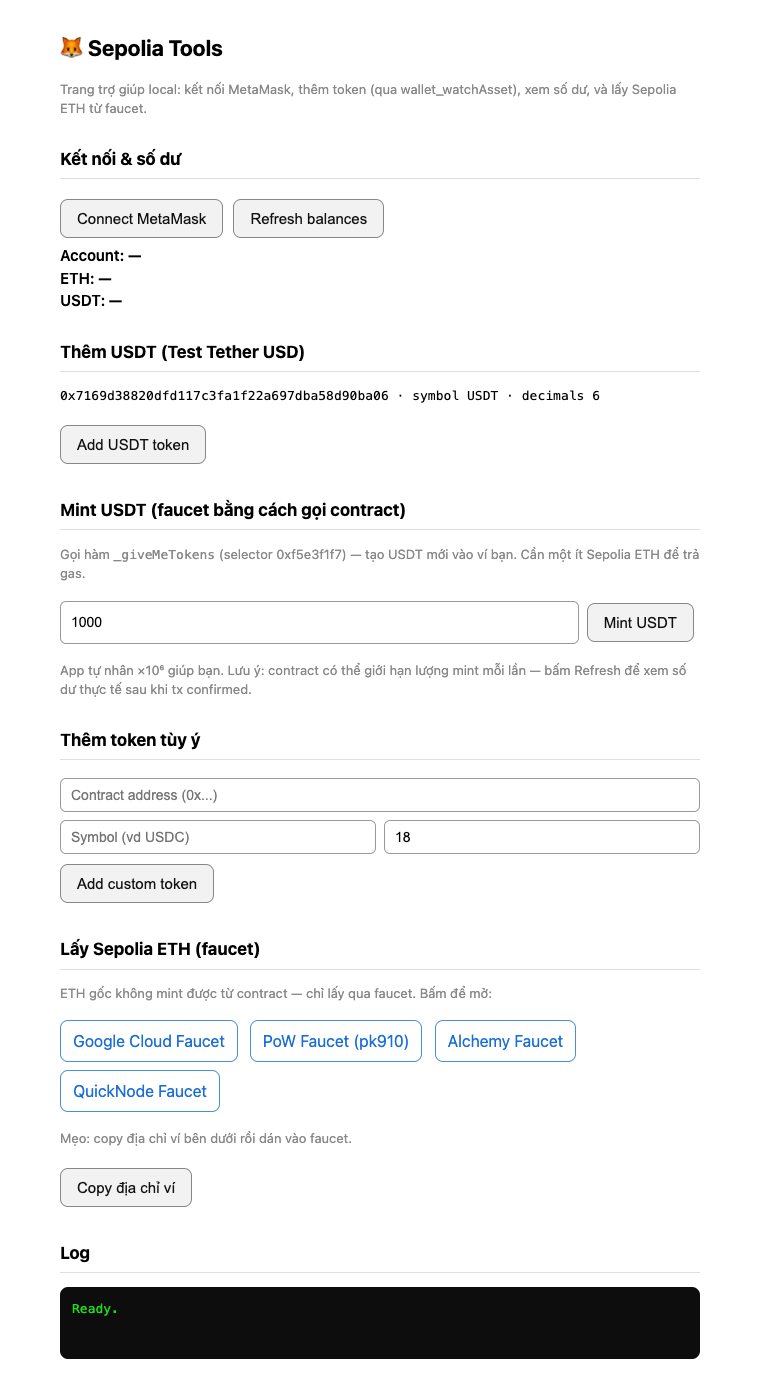
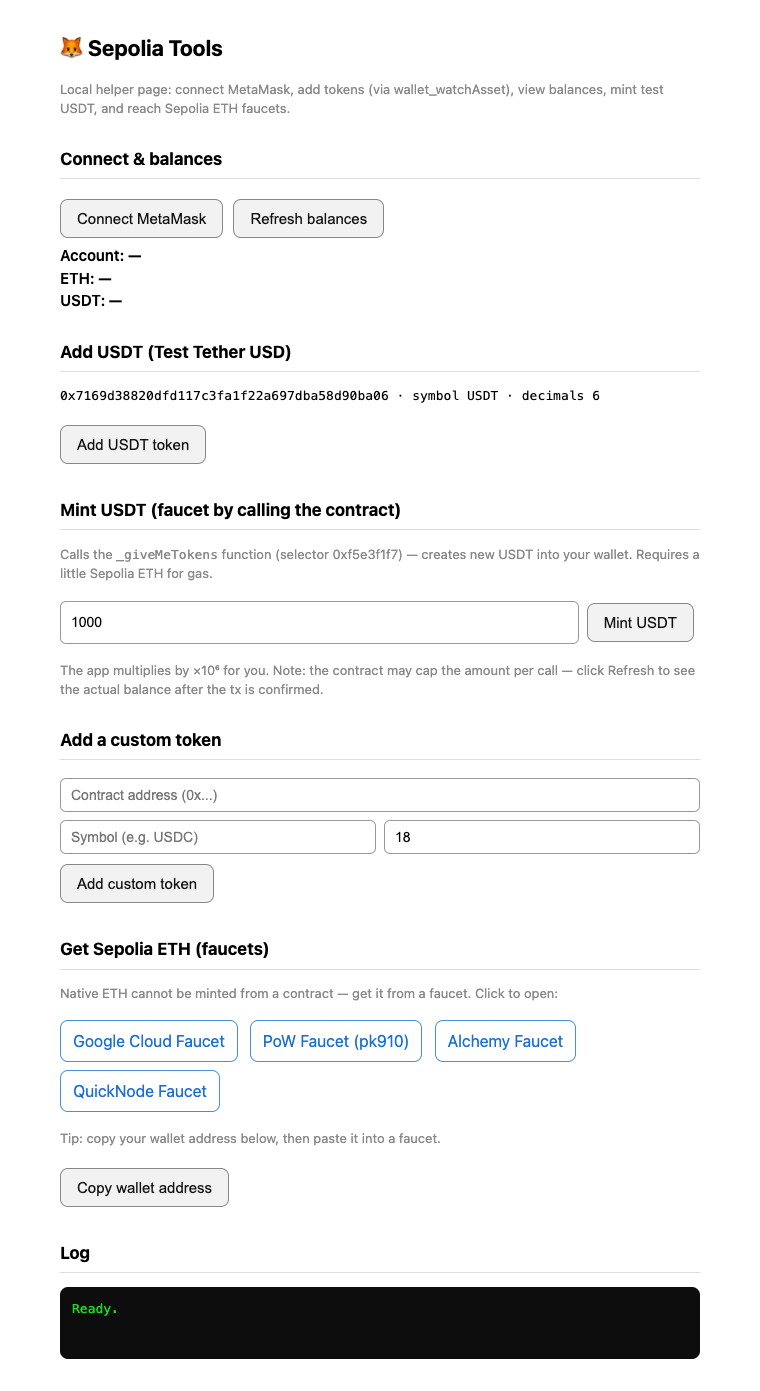
Switch code/UI to English, make README bilingual (English default)
- Translate all UI text and code comments in index.html to English
- Merge READMEs into one bilingual file (English first, Vietnamese below)
- Replace screenshot with English UI

diff --git a/index.html b/index.html
@@ -3,7 +3,7 @@
 <head>
 <meta charset="utf-8"/>
 <meta name="viewport" content="width=device-width, initial-scale=1"/>
-<title>Sepolia Tools — Add Token / Faucet</title>
+<title>Sepolia Tools — Add Token / Mint / Faucet</title>
 <style>
   :root{color-scheme:light dark}
   body{font-family:system-ui,Arial,sans-serif;max-width:640px;margin:32px auto;padding:0 16px;line-height:1.5}
@@ -23,43 +23,43 @@
 </head>
 <body>
 <h1>🦊 Sepolia Tools</h1>
-<p class="muted">Trang trợ giúp local: kết nối MetaMask, thêm token (qua wallet_watchAsset), xem số dư, và lấy Sepolia ETH từ faucet.</p>
+<p class="muted">Local helper page: connect MetaMask, add tokens (via wallet_watchAsset), view balances, mint test USDT, and reach Sepolia ETH faucets.</p>
 
-<h2>Kết nối & số dư</h2>
+<h2>Connect &amp; balances</h2>
 <button id="connect">Connect MetaMask</button>
 <button id="refresh">Refresh balances</button>
 <div class="bal" id="acct">Account: —</div>
 <div class="bal" id="ethBal">ETH: —</div>
 <div class="bal" id="usdtBal">USDT: —</div>
 
-<h2>Thêm USDT (Test Tether USD)</h2>
+<h2>Add USDT (Test Tether USD)</h2>
 <p class="mono">0x7169d38820dfd117c3fa1f22a697dba58d90ba06 · symbol USDT · decimals 6</p>
 <button id="addUsdt">Add USDT token</button>
 
-<h2>Mint USDT (faucet bằng cách gọi contract)</h2>
-<p class="muted">Gọi hàm <span class="mono">_giveMeTokens</span> (selector 0xf5e3f1f7) — tạo USDT mới vào ví bạn. Cần một ít Sepolia ETH để trả gas.</p>
+<h2>Mint USDT (faucet by calling the contract)</h2>
+<p class="muted">Calls the <span class="mono">_giveMeTokens</span> function (selector 0xf5e3f1f7) — creates new USDT into your wallet. Requires a little Sepolia ETH for gas.</p>
 <div class="row">
-  <input id="mintAmt" placeholder="Số USDT muốn mint (vd 1000)" value="1000"/>
+  <input id="mintAmt" placeholder="Amount of USDT to mint (e.g. 1000)" value="1000"/>
   <button id="mintUsdt">Mint USDT</button>
 </div>
-<p class="muted">App tự nhân ×10⁶ giúp bạn. Lưu ý: contract có thể giới hạn lượng mint mỗi lần — bấm Refresh để xem số dư thực tế sau khi tx confirmed.</p>
+<p class="muted">The app multiplies by ×10⁶ for you. Note: the contract may cap the amount per call — click Refresh to see the actual balance after the tx is confirmed.</p>
 
-<h2>Thêm token tùy ý</h2>
+<h2>Add a custom token</h2>
 <input id="ctAddr" placeholder="Contract address (0x...)"/>
 <div class="row">
-  <input id="ctSym" placeholder="Symbol (vd USDC)"/>
-  <input id="ctDec" placeholder="Decimals (vd 6)" value="18"/>
+  <input id="ctSym" placeholder="Symbol (e.g. USDC)"/>
+  <input id="ctDec" placeholder="Decimals (e.g. 6)" value="18"/>
 </div>
 <button id="addCustom">Add custom token</button>
 
-<h2>Lấy Sepolia ETH (faucet)</h2>
-<p class="muted">ETH gốc không mint được từ contract — chỉ lấy qua faucet. Bấm để mở:</p>
+<h2>Get Sepolia ETH (faucets)</h2>
+<p class="muted">Native ETH cannot be minted from a contract — get it from a faucet. Click to open:</p>
 <a class="faucet" href="https://cloud.google.com/application/web3/faucet/ethereum/sepolia" target="_blank">Google Cloud Faucet</a>
 <a class="faucet" href="https://sepolia-faucet.pk910.de/" target="_blank">PoW Faucet (pk910)</a>
 <a class="faucet" href="https://www.alchemy.com/faucets/ethereum-sepolia" target="_blank">Alchemy Faucet</a>
 <a class="faucet" href="https://faucet.quicknode.com/ethereum/sepolia" target="_blank">QuickNode Faucet</a>
-<p class="muted">Mẹo: copy địa chỉ ví bên dưới rồi dán vào faucet.</p>
-<button id="copyAddr">Copy địa chỉ ví</button>
+<p class="muted">Tip: copy your wallet address below, then paste it into a faucet.</p>
+<button id="copyAddr">Copy wallet address</button>
 
 <h2>Log</h2>
 <pre id="log">Ready.
@@ -84,26 +84,26 @@ function fmtUnits(hex, decimals){
 async function ensureSepolia(){
   const chainId = await window.ethereum.request({method:'eth_chainId'});
   if(chainId !== SEPOLIA){
-    log('chainId '+chainId+' ≠ Sepolia, đang chuyển...');
+    log('chainId '+chainId+' is not Sepolia, switching...');
     await window.ethereum.request({method:'wallet_switchEthereumChain', params:[{chainId:SEPOLIA}]});
   }
 }
 
 async function refresh(){
   if(!window.ethereum){ log('ERROR: MetaMask not found.'); return; }
-  if(!account){ log('Hãy Connect trước.'); return; }
+  if(!account){ log('Please Connect first.'); return; }
   try{
     const ethHex = await window.ethereum.request({method:'eth_getBalance', params:[account,'latest']});
     document.getElementById('ethBal').textContent = 'ETH: ' + fmtUnits(ethHex,18) + ' SepoliaETH';
     const data = '0x70a08231' + account.slice(2).toLowerCase().padStart(64,'0');
     const usdtHex = await window.ethereum.request({method:'eth_call', params:[{to:USDT, data:data},'latest']});
     document.getElementById('usdtBal').textContent = 'USDT: ' + fmtUnits(usdtHex,6) + ' USDT';
-    log('Đã cập nhật số dư.');
+    log('Balances updated.');
   }catch(e){ log('refresh error: '+(e.message||e)); }
 }
 
 document.getElementById('connect').onclick = async () => {
-  if(!window.ethereum){ log('ERROR: window.ethereum not found (MetaMask chưa inject vào trang).'); return; }
+  if(!window.ethereum){ log('ERROR: window.ethereum not found (MetaMask not injected into this page).'); return; }
   try{
     const accts = await window.ethereum.request({method:'eth_requestAccounts'});
     account = accts[0];
@@ -123,7 +123,7 @@ async function watch(address, symbol, decimals){
       method:'wallet_watchAsset',
       params:{ type:'ERC20', options:{ address, symbol, decimals: Number(decimals) } }
     });
-    log(ok ? ('SUCCESS: đã thêm '+symbol) : 'User rejected.');
+    log(ok ? ('SUCCESS: added '+symbol) : 'User rejected.');
     if(ok) refresh();
   }catch(e){ log('watchAsset error: '+(e.message||e)); }
 }
@@ -133,36 +133,37 @@ document.getElementById('addUsdt').onclick = () => watch(USDT,'USDT',6);
 const MINT_SELECTOR = '0xf5e3f1f7'; // _giveMeTokens(uint256) — verified from on-chain tx input
 document.getElementById('mintUsdt').onclick = async () => {
   if(!window.ethereum){ log('ERROR: MetaMask not found.'); return; }
-  if(!account){ log('Hãy Connect trước.'); return; }
+  if(!account){ log('Please Connect first.'); return; }
   const whole = document.getElementById('mintAmt').value.trim();
-  if(!/^\d+$/.test(whole) || BigInt(whole) <= 0n){ log('Nhập số USDT nguyên dương.'); return; }
+  if(!/^\d+$/.test(whole) || BigInt(whole) <= 0n){ log('Enter a positive integer amount of USDT.'); return; }
   const base = BigInt(whole) * (10n ** 6n);
   const data = MINT_SELECTOR + base.toString(16).padStart(64,'0');
   try{
     await ensureSepolia();
-    log('Đang gửi mint '+whole+' USDT (base '+base.toString()+')... xác nhận trong MetaMask.');
+    log('Sending mint of '+whole+' USDT (base '+base.toString()+')... confirm in MetaMask.');
     const txHash = await window.ethereum.request({
       method:'eth_sendTransaction',
       params:[{ from: account, to: USDT, data: data }]
     });
     log('Mint tx sent: '+txHash);
-    log('Đợi ~15s rồi bấm "Refresh balances".');
+    log('Wait ~15s, then click "Refresh balances".');
     setTimeout(refresh, 15000);
   }catch(e){ log('mint error: '+(e.message||e)); }
 };
+
 document.getElementById('addCustom').onclick = () => {
   const a=document.getElementById('ctAddr').value.trim();
   const s=document.getElementById('ctSym').value.trim();
   const d=document.getElementById('ctDec').value.trim()||'18';
-  if(!/^0x[0-9a-fA-F]{40}$/.test(a)){ log('Địa chỉ contract không hợp lệ.'); return; }
-  if(!s){ log('Nhập symbol.'); return; }
+  if(!/^0x[0-9a-fA-F]{40}$/.test(a)){ log('Invalid contract address.'); return; }
+  if(!s){ log('Enter a symbol.'); return; }
   watch(a,s,d);
 };
 
 document.getElementById('copyAddr').onclick = async () => {
-  if(!account){ log('Connect trước đã.'); return; }
-  try{ await navigator.clipboard.writeText(account); log('Đã copy: '+account); }
-  catch(e){ log('Copy thủ công: '+account); }
+  if(!account){ log('Connect first.'); return; }
+  try{ await navigator.clipboard.writeText(account); log('Copied: '+account); }
+  catch(e){ log('Copy manually: '+account); }
 };
 
 if(window.ethereum){

diff --git a/README.md b/README.md
@@ -1,19 +1,103 @@
 # 🦊 Sepolia Tools
 
-🌐 **Tiếng Việt** · [English](README.en.md)
+**English** · [Tiếng Việt ↓](#-tiếng-việt)
 
-Trang trợ giúp **local** để làm việc với ví MetaMask trên mạng **Sepolia testnet**:
+A **local** helper page for working with a MetaMask wallet on the **Sepolia testnet**:
 
-- Kết nối MetaMask, xem số dư **ETH** và **USDT** real-time
-- **Thêm token** vào MetaMask qua `wallet_watchAsset` (khắc phục được lỗi import thủ công bị treo của MetaMask)
-- **Mint USDT** trực tiếp bằng cách gọi hàm contract
-- Link nhanh tới các **faucet** lấy Sepolia ETH
+- Connect MetaMask, view **ETH** and **USDT** balances in real time
+- **Add tokens** to MetaMask via `wallet_watchAsset` (works around MetaMask's manual-import bug where a token shows "added" but never appears)
+- **Mint test USDT** directly by calling the token contract
+- Quick links to **faucets** for Sepolia ETH
 
-Toàn bộ chạy offline ở máy bạn (một file HTML tĩnh + server HTTP đơn giản). Không có backend, không thu thập dữ liệu.
+Everything runs offline on your machine (a single static HTML file + a simple HTTP server). No backend, no data collection.
 
 ![Sepolia Tools screenshot](docs/screenshot.png)
 
 ---
+
+## 🚀 Quick start
+
+```bash
+./start.sh
+```
+
+The script will:
+1. Serve the app at `http://localhost:8765/`
+2. Open your default browser automatically
+
+Use a different port: `./start.sh 9000`
+
+Stop the app: press `Ctrl+C`.
+
+> Requirements: `python3` (preinstalled on macOS/Linux) and a browser with **MetaMask** installed.
+
+## 📖 Usage
+
+1. **Connect & balances** — Click **Connect MetaMask** → pick an account → the app switches to Sepolia if needed. ETH and USDT balances show immediately. Click **Refresh balances** to update.
+2. **Add USDT** — Click **Add USDT token** → approve the "Add suggested token" popup. Use this when MetaMask's manual import says "added" but the token never appears.
+3. **Mint USDT** — Enter an amount (the app multiplies by ×10⁶ for you) → **Mint USDT** → **Confirm** in MetaMask. Needs a little Sepolia ETH for gas. Wait ~15s, then **Refresh balances**.
+4. **Add a custom token** — Enter contract address, symbol, decimals → **Add custom token**.
+5. **Get Sepolia ETH** — Click **Copy wallet address**, then open a faucet and paste it.
+
+## 🪙 USDT token (Test Tether USD)
+
+| Property | Value |
+|---|---|
+| Network | Sepolia (chainId `11155111` / `0xaa36a7`) |
+| Contract | `0x7169d38820dfd117c3fa1f22a697dba58d90ba06` |
+| Symbol | USDT |
+| Decimals | **6** |
+| Mint function | `_giveMeTokens(uint256)` — selector `0xf5e3f1f7` (public faucet) |
+
+> The mint selector was verified directly from the input data of a successful on-chain mint transaction — not guessed.
+
+## ❓ Mint vs Faucet
+
+| | **Mint** | **Faucet** |
+|---|---|---|
+| Nature | **Creates new** tokens from a contract (increases total supply) | **Hands out** existing coins from a pre-funded pool |
+| Used for | ERC-20 tokens that expose a mint function | Native coin (Sepolia ETH) |
+| How | You call the contract function from your wallet | A website/service sends it to you |
+
+**Native ETH cannot be minted** because no contract controls its supply — you can only get it from a faucet. ERC-20 tokens define their own mint function, so anyone allowed to call it can create new tokens.
+
+## 📁 Structure
+
+```
+sepolia-tools/
+├── index.html        # the whole app (UI + logic)
+├── start.sh          # start the server + open the browser
+├── README.md         # this file (English + Vietnamese)
+├── docs/
+│   └── screenshot.png
+└── .gitignore
+```
+
+## 🔒 Security
+
+- The app **never** asks for your seed phrase / private key. Every transaction is signed through the MetaMask popup.
+- For **Sepolia testnet only**. Do not use with real assets on mainnet.
+- The faucet funds and tokens here are for testing only and have **no real monetary value**.
+
+<br/>
+
+---
+---
+
+<br/>
+
+# 🦊 Tiếng Việt
+
+[↑ English](#-sepolia-tools) · **Tiếng Việt**
+
+Trang trợ giúp **local** để làm việc với ví MetaMask trên mạng **Sepolia testnet**:
+
+- Kết nối MetaMask, xem số dư **ETH** và **USDT** real-time
+- **Thêm token** vào MetaMask qua `wallet_watchAsset` (khắc phục lỗi import thủ công bị treo của MetaMask)
+- **Mint USDT** trực tiếp bằng cách gọi hàm contract
+- Link nhanh tới các **faucet** lấy Sepolia ETH
+
+Toàn bộ chạy offline ở máy bạn (một file HTML tĩnh + server HTTP đơn giản). Không có backend, không thu thập dữ liệu.
 
 ## 🚀 Chạy ngay
 
@@ -21,40 +105,17 @@ Toàn bộ chạy offline ở máy bạn (một file HTML tĩnh + server HTTP đ
 ./start.sh
 ```
 
-Script sẽ:
-1. Phục vụ app tại `http://localhost:8765/`
-2. Tự mở trình duyệt mặc định
-
-Đổi port nếu cần: `./start.sh 9000`
-
-Dừng app: nhấn `Ctrl+C`.
+Script sẽ phục vụ app tại `http://localhost:8765/` và tự mở trình duyệt. Đổi port: `./start.sh 9000`. Dừng: `Ctrl+C`.
 
 > Yêu cầu: `python3` (có sẵn trên macOS/Linux) và trình duyệt đã cài **MetaMask**.
 
----
-
 ## 📖 Hướng dẫn sử dụng
 
-### 1. Kết nối & xem số dư
-- Bấm **Connect MetaMask** → chọn account → app tự chuyển sang Sepolia nếu cần.
-- Số dư **ETH** và **USDT** hiển thị ngay. Bấm **Refresh balances** để cập nhật.
-
-### 2. Thêm USDT vào ví
-- Bấm **Add USDT token** → MetaMask hiện popup "Add suggested token" → **Add token**.
-- Dùng cách này khi import thủ công trong MetaMask báo "added" nhưng token không hiện.
-
-### 3. Thêm token tùy ý
-- Nhập **contract address**, **symbol**, **decimals** → **Add custom token**.
-
-### 4. Mint USDT
-- Nhập số USDT muốn mint (app tự nhân ×10⁶) → **Mint USDT** → **Confirm** trong MetaMask.
-- Cần một ít Sepolia ETH để trả gas.
-- Đợi ~15s rồi bấm **Refresh balances**.
-
-### 5. Lấy Sepolia ETH (faucet)
-- Bấm **Copy địa chỉ ví**, rồi mở một trong các faucet và dán địa chỉ vào.
-
----
+1. **Kết nối & số dư** — Bấm **Connect MetaMask** → chọn account → app tự chuyển sang Sepolia nếu cần. Số dư ETH/USDT hiển thị ngay. Bấm **Refresh balances** để cập nhật.
+2. **Thêm USDT** — Bấm **Add USDT token** → approve popup "Add suggested token". Dùng khi import thủ công báo "added" nhưng token không hiện.
+3. **Mint USDT** — Nhập số lượng (app tự nhân ×10⁶) → **Mint USDT** → **Confirm** trong MetaMask. Cần ít Sepolia ETH trả gas. Đợi ~15s rồi **Refresh balances**.
+4. **Thêm token tùy ý** — Nhập contract address, symbol, decimals → **Add custom token**.
+5. **Lấy Sepolia ETH** — Bấm **Copy wallet address**, mở faucet và dán địa chỉ vào.
 
 ## 🪙 Token USDT (Test Tether USD)
 
@@ -68,8 +129,6 @@ Dừng app: nhấn `Ctrl+C`.
 
 > Selector mint được xác thực trực tiếp từ input của một giao dịch mint thành công on-chain, không phải đoán.
 
----
-
 ## ❓ Mint khác Faucet thế nào?
 
 | | **Mint** | **Faucet** |
@@ -78,19 +137,7 @@ Dừng app: nhấn `Ctrl+C`.
 | Dùng cho | Token ERC-20 có hàm mint | Coin gốc/native (Sepolia ETH) |
 | Cách làm | Gọi thẳng hàm contract qua ví | Website/dịch vụ gửi cho bạn |
 
-**ETH gốc không mint được** vì không contract nào quản lý nguồn cung của nó — chỉ lấy qua faucet. Token ERC-20 thì contract tự định nghĩa hàm mint nên gọi được là tạo token mới.
-
----
-
-## 📁 Cấu trúc
-
-```
-sepolia-tools/
-├── index.html    # toàn bộ app (UI + logic)
-├── start.sh      # khởi động server + mở trình duyệt
-├── README.md     # tài liệu này
-└── .gitignore
-```
+**ETH gốc không mint được** vì không contract nào quản lý nguồn cung — chỉ lấy qua faucet. Token ERC-20 thì contract tự định nghĩa hàm mint nên gọi được là tạo token mới.
 
 ## 🔒 Bảo mật
 